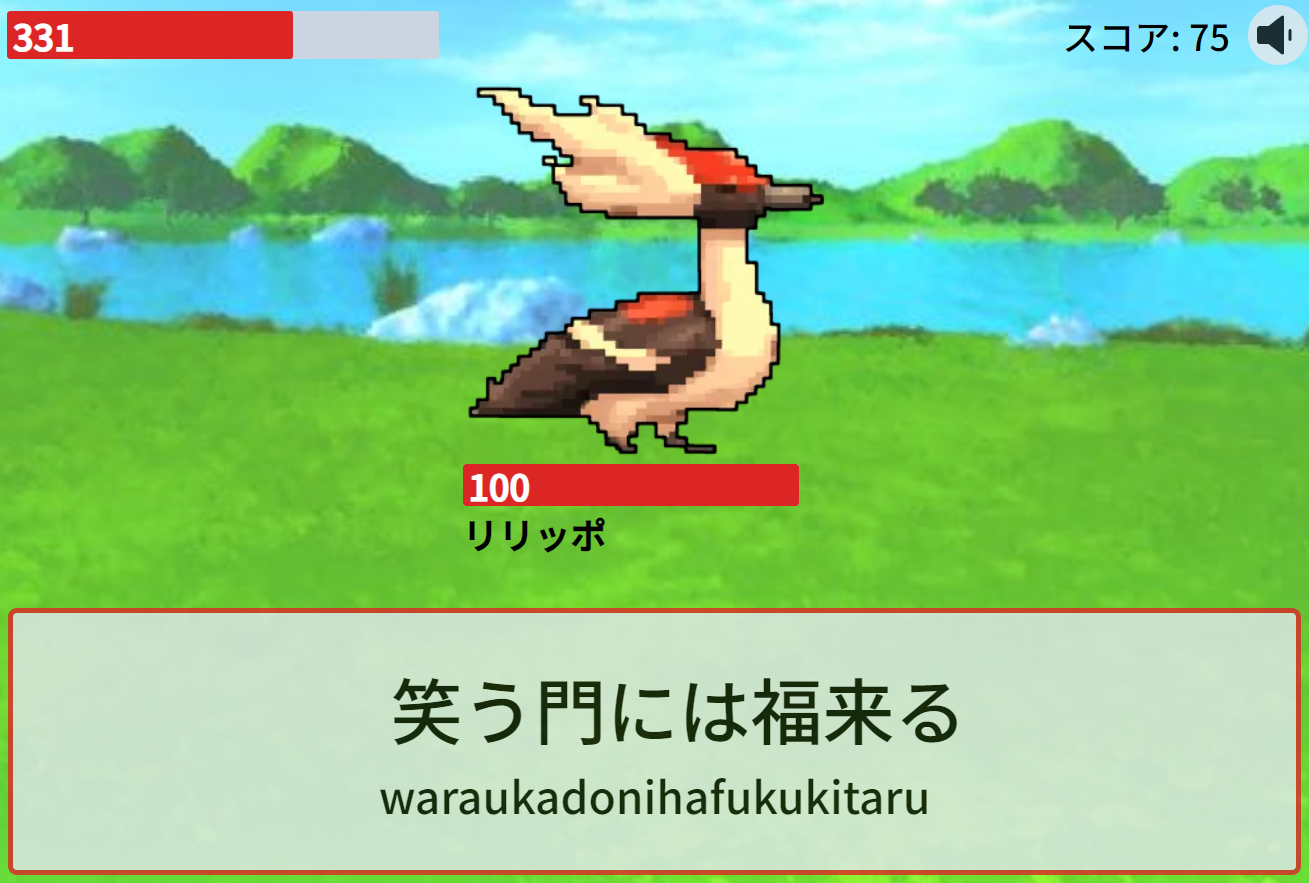
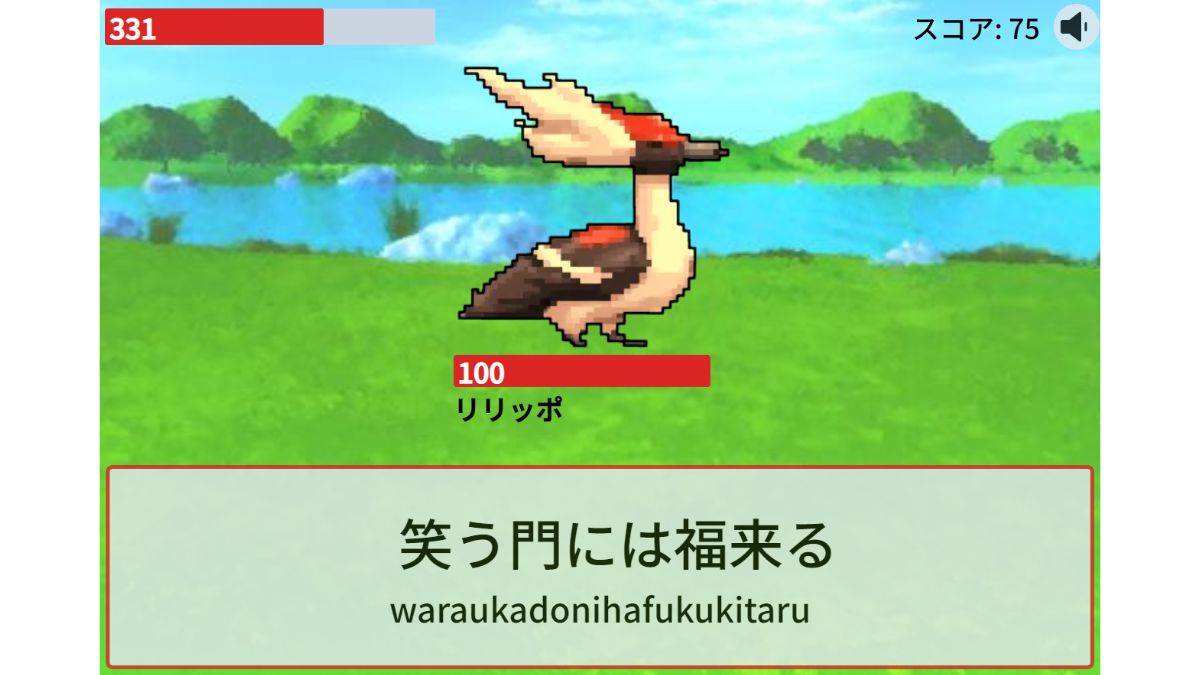
Twitter用画像のサイズを変更

diff --git a/src/app/components/molecules/TwitterShare.tsx b/src/app/components/molecules/TwitterShare.tsx
@@ -3,18 +3,22 @@ import { BsTwitter } from "react-icons/bs";
 import { TwitterShareButton } from "react-share";
 
 function TwitterShare() {
+  const shareUrl =
+    "https://twitter.com/intent/tweet?text=" +
+    encodeURIComponent("タイピング冒険記！") +
+    "&url=" +
+    encodeURIComponent("https://typing-adventure.com/") +
+    "&hashtags=" +
+    encodeURIComponent("個人開発");
+
   return (
     <>
-      <TwitterShareButton
-        url={"https://typing-adventure.com/"}
-        title={"タイピング冒険記！"}
-        hashtags={["個人開発"]}
-      >
+      <button onClick={() => window.open(shareUrl, "_blank")}>
         <div className="bg-twitter text-white flex rounded-md p-1 pl-4 items-center space-x-2 w-[18rem] shadow-xl transition hover:bg-twitter-hover">
           <BsTwitter size={28} />
           <p className="text-[1.5rem] font-bold">Twitterで共有</p>
         </div>
-      </TwitterShareButton>
+      </button>
     </>
   );
 }

diff --git a/src/app/layout.tsx b/src/app/layout.tsx
@@ -21,6 +21,7 @@ export const metadata: Metadata = {
     url: "https://typing-adventure.com",
   },
   twitter: {
+    card: "summary_large_image",
     title: "タイピング冒険記",
     description:
       "タイピングしながら敵とバトルして冒険していく無料のタイピングゲームです。面白い対戦をしながら練習にもなります",
@@ -36,14 +37,6 @@ export default function RootLayout({
 }) {
   return (
     <html lang="ja">
-      {/* <Head>
-        <meta name="twitter:card" content="summary_large_image" />
-        <meta
-          name="twitter:image"
-          content="https://typing-adventure.com/twitter-image.png"
-        />
-      </Head> */}
-
       <body
         className={`${inter.className} bg-main shadow-lg min-h-screen w-full flex justify-center`}
       >
